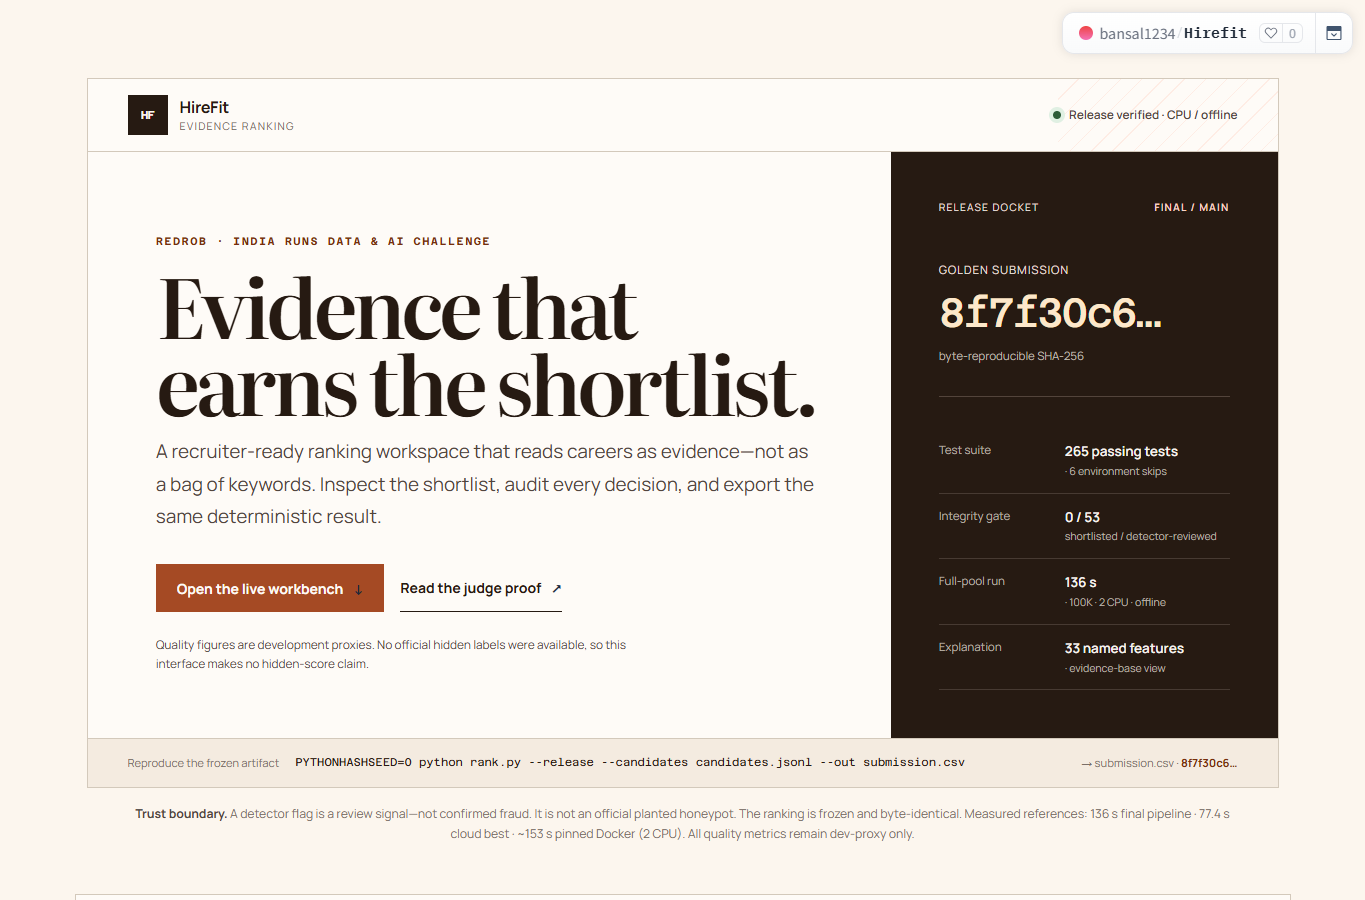
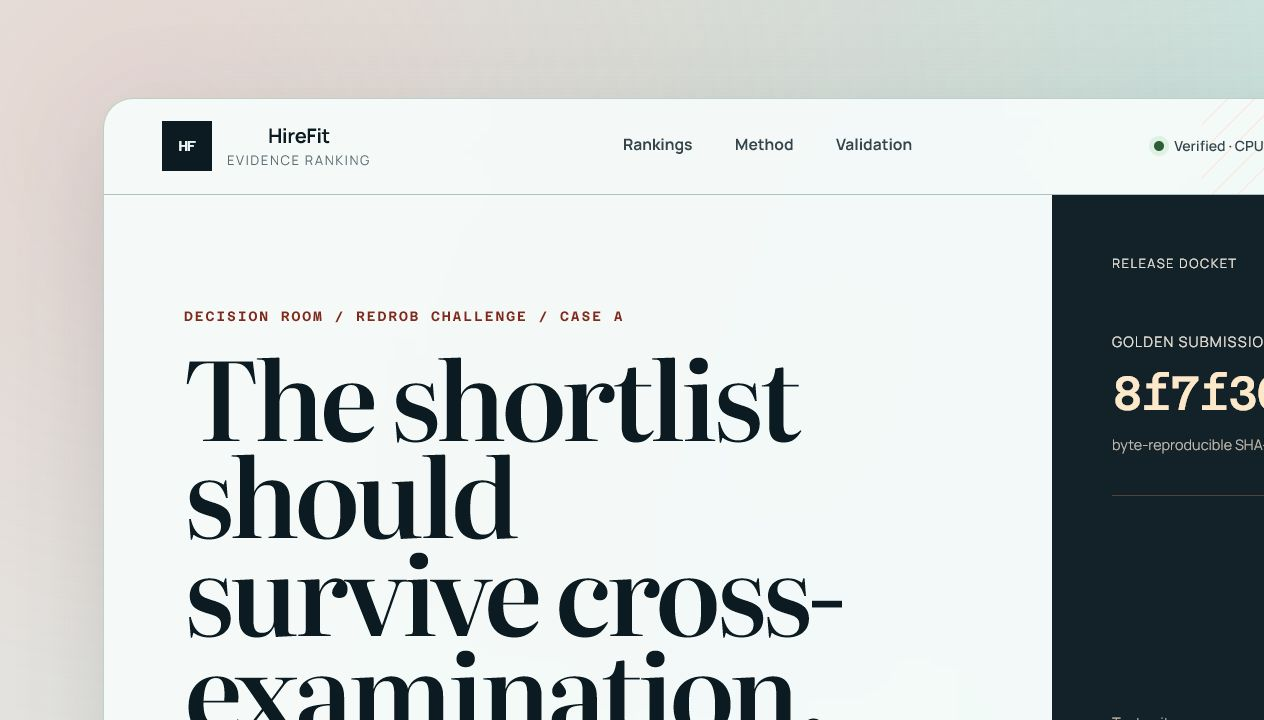
Document the HireFit visual system

diff --git a/docs/VISUAL_SYSTEM.md b/docs/VISUAL_SYSTEM.md
@@ -1,0 +1,62 @@
+# HireFit visual system
+
+HireFit presents ranking as a **forensic decision room**: the shortlist is a conclusion, and every
+conclusion must expose the evidence that produced it. This direction is deliberately different from
+generic dark-glass AI dashboards. It combines an editorial casefile with a working recruiter ledger.
+
+## Experience architecture
+
+1. **Rankings** starts with the active search and moves directly into the populated candidate ledger.
+2. **Method** progressively discloses retrieval, evidence verification, integrity gating, and stable ranking.
+3. **Validation** exposes the artifact hash, test receipt, runtime, compute budget, and shortlist gate.
+
+The first screen communicates the decision. Deeper methodology is available on request rather than
+competing with the primary task.
+
+## Shared presentation language
+
+- Mineral neutrals replace the common cream-template palette.
+- Rust identifies decisions and active controls; green is reserved for verified status.
+- Literata carries the editorial casefile voice, Manrope carries product UI, and Azeret Mono is limited
+  to hashes, receipts, and machine-readable facts.
+- Translucency is reserved for navigation and major foreground surfaces. Dense evidence remains opaque
+  enough to read quickly.
+- Day and night files preserve the same hierarchy instead of becoming separate designs.
+
+## Interaction rules
+
+- Selected filters use a filled state, border, and `aria-pressed` or native checked state.
+- Method layers use native `details` disclosure and remain keyboard operable.
+- Candidate cards support pointer, Enter, and Space activation.
+- Motion communicates entrance and state change using opacity and transforms only.
+- `prefers-reduced-motion` removes nonessential motion.
+- Controls are at least 44px high in the primary workflows; focus indicators remain visible against
+  both presentation modes.
+
+## Responsive behavior
+
+- Navigation wraps before it collides with mode controls.
+- The ranking summary becomes a two-column phone grid.
+- Filters become a two-column control matrix with search spanning the full width.
+- The evidence dossier leaves the desktop sticky rail and enters normal document flow on narrow screens.
+- Method and validation panels collapse to one column without hiding functionality.
+
+## Quality gates
+
+- `npx impeccable --json apps/api/static/index.html`: zero findings.
+- Current full local suite: 270 passed, 1 environment skip; CI remains 265 passed, 6 optional-environment skips.
+- Frozen `submission.csv` SHA-256 remains
[1 lines of base64/hex data omitted]
+- Public Render `/api/readyz` reports the merged Git SHA and loaded dashboard.
+- Public HF navigation, progressive disclosure, filter selection, and zero horizontal desktop overflow
+  are browser-verified after deployment.
+
+## Research basis
+
+- Nielsen Norman Group: progressive disclosure should keep common actions visible and reveal specialized
+  detail only when requested.
+- Apple Human Interface Guidelines: materials should create hierarchy between foreground controls and
+  content, not become decoration everywhere.
+- WCAG 2.2: focus appearance and target sizing must make state and interaction discoverable.
+- web.dev: avoid layout-property animation and layout thrashing to protect interaction latency.
+

diff --git a/README.md b/README.md
@@ -58,6 +58,7 @@ were available before submission.
 | Surface | Link | What it is |
 |---|---|---|
 | **Live demo (sandbox)** | **[HuggingFace Space ↗](https://huggingface.co/spaces/bansal1234/Hirefit)** | runs the *real* ranker in-browser — release docket → populated candidate ledger → evidence dossier → CSV export |
+| **Live decision room** | **[Render app ↗](https://redrob-hirefit-ranker.onrender.com)** | recruiter workspace with Rankings, Method, Validation, live proof, and batch modes |
 | **Deployable API** | [Render Blueprint](https://render.com/deploy?repo=https://github.com/bansalbhunesh/redrob-hirefit-ranker) | one-click FastAPI deployment from committed `render.yaml` |
 | **Decision dashboard** | `streamlit run omega_decision_dashboard.py` | read-only explainability + integrity cards |
 | **Source** | [GitHub ↗](https://github.com/bansalbhunesh/redrob-hirefit-ranker) | full code · one-command reproduction |
@@ -65,10 +66,10 @@ were available before submission.
 
 ## Live Space screenshots
 
-| Desktop — release dossier | 390 px mobile — no overflow |
+| Desktop — decision room | 390 px mobile — no overflow |
 |:---:|:---:|
 | ![HireFit live desktop hero](docs/screenshots/hirefit-live-desktop-hero.png) | ![HireFit live 390px hero](docs/screenshots/hirefit-live-mobile390-hero.png) |
-| Candidate ledger + evidence dossier | Mobile evidence dossier |
+| Method + artifact proof | Mobile evidence dossier |
 | ![HireFit live desktop workspace](docs/screenshots/hirefit-live-desktop-workspace.png) | ![HireFit live 390px workspace](docs/screenshots/hirefit-live-mobile390-workspace.png) |
 
 ## Quick start
@@ -246,6 +247,7 @@ CPU-only, offline, deterministic. The same command appears in `reproduce.sh` and
 - **External validation:** [external_recruiter_validation](docs/external_recruiter_validation.md) — cross-check against a real recruiter-labeled set
 - **Judge orientation:** [JUDGE_PROOF](docs/JUDGE_PROOF.md) · [JUDGE_PACKET](docs/JUDGE_PACKET.md) · [SUBMISSION_CHECKLIST](docs/SUBMISSION_CHECKLIST.md)
 - **Submission surfaces:** [DEVPOST](docs/DEVPOST.md) · [DEMO_SCRIPT](docs/DEMO_SCRIPT.md)
+- **Visual system:** [VISUAL_SYSTEM](docs/VISUAL_SYSTEM.md) — forensic decision-room identity, interaction states, responsiveness, and quality gates
 - **Deployment:** [DEPLOYMENT](docs/DEPLOYMENT.md) · [`render.yaml`](render.yaml) · [backend hardening](docs/backend_infra_hardening.md)
 - **Security:** [SECURITY](SECURITY.md)
 - **What we rejected:** [measured_negatives](docs/measured_negatives.md) · [why_not_reranker](docs/why_not_reranker.md) · [beyond_hedge_sweep](docs/beyond_hedge_sweep.md)
